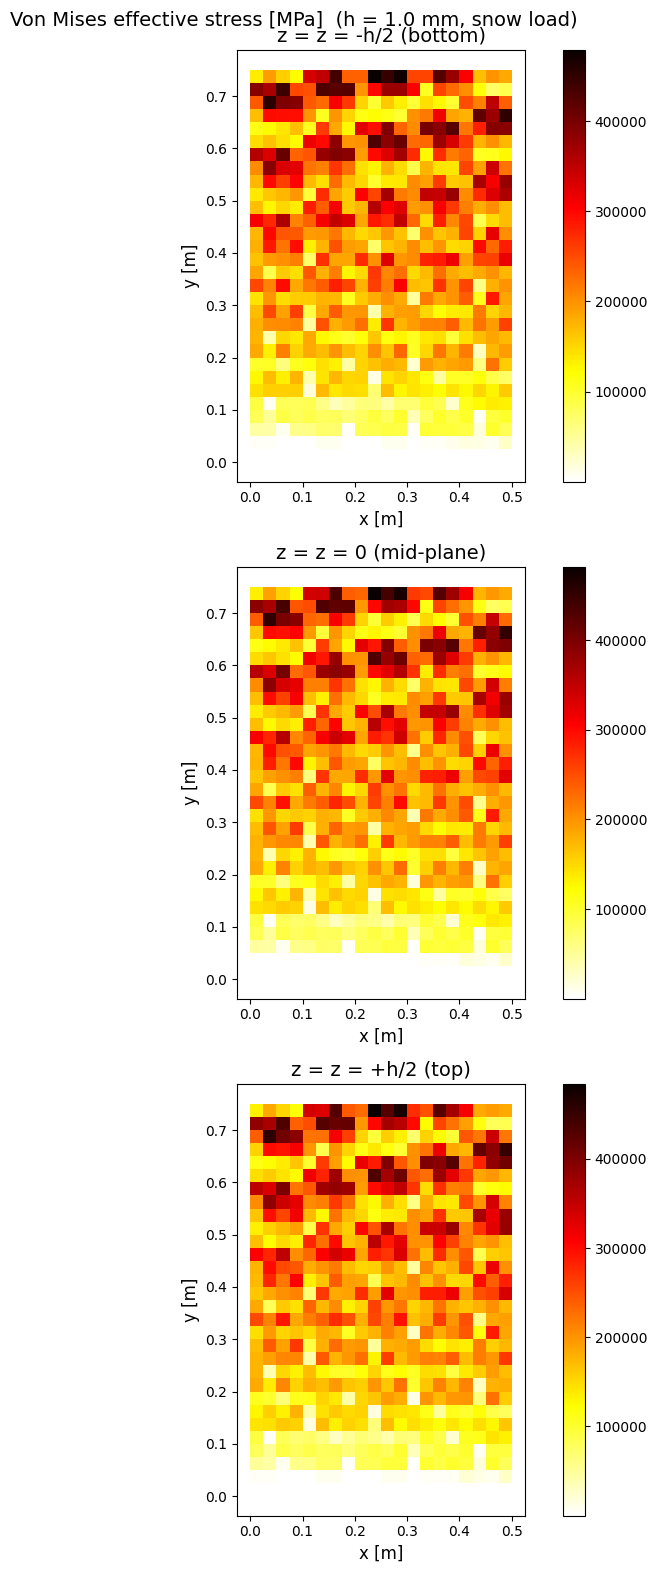
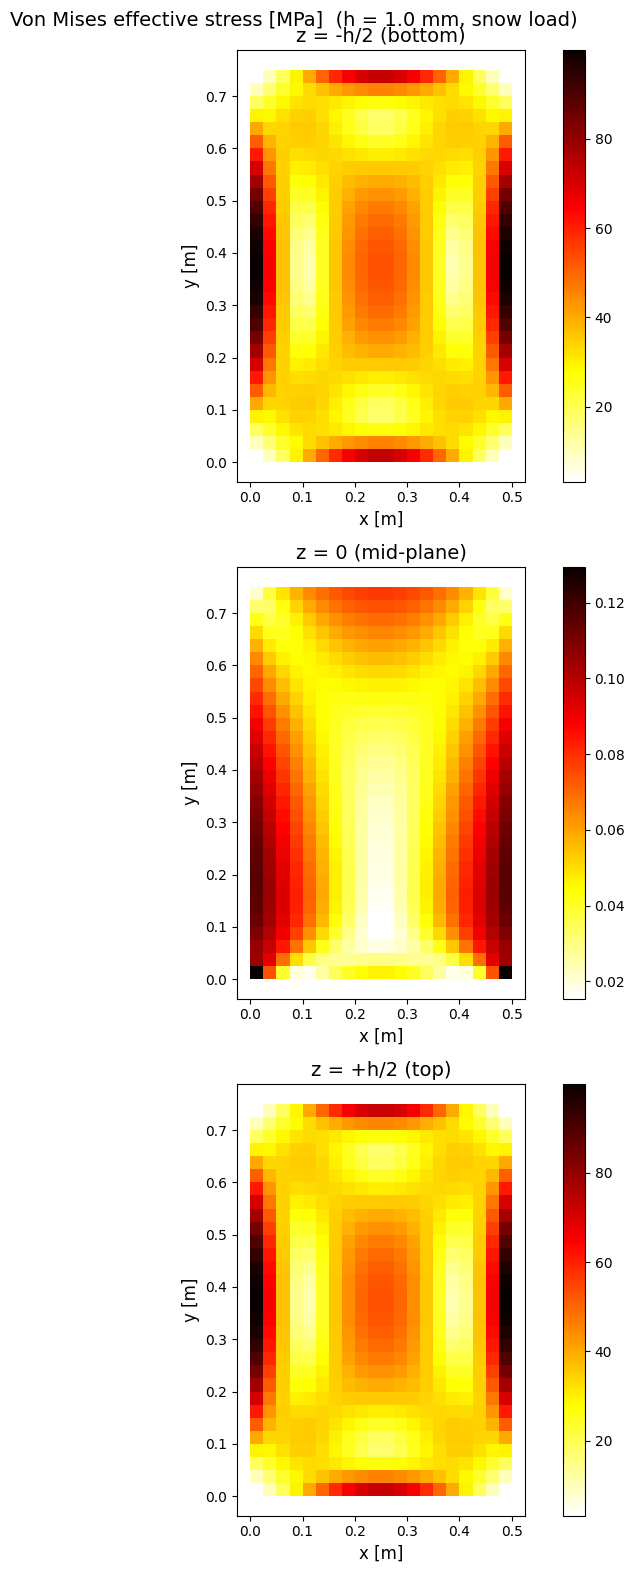
.

diff --git a/TME245/CA2/CA2_TME245.py b/TME245/CA2/CA2_TME245.py
@@ -304,7 +304,7 @@ new_subtask('Task 1 e) - Small FE-program for plate analysis')
 # Mesh parameters
 # =============================================================================
 xmin = 0
-xmax = 0.50
+xmax = 0.5
 ymin = 0
 ymax = 0.75
 nelx = 20
@@ -372,7 +372,7 @@ plt.show()
 # =============================================================================
 nel = mesh.shape[1]
 nnodes = Coord.shape[0]
-dofs_per_node = 5
+dofs_per_node = 5 # u_x, u_y, w, theta_y, theta_x
 ndofs = dofs_per_node * nnodes
 
 K_global = lil_matrix((ndofs, ndofs)) 
@@ -406,16 +406,13 @@ for n in clamped_nodes:
 
 # Gliding
 for n in gliding_nodes:
-    prescribed.add(5 * n + 2)  # w
-    prescribed.add(5 * n + 3)  # theta_y
-    prescribed.add(5 * n + 4)  # theta_x
+    prescribed.add(5 * n + 2) # w
+    prescribed.add(5 * n + 3) # theta_y
+    prescribed.add(5 * n + 4) # theta_x
 
 dof_C = np.array(sorted(prescribed), dtype=int)
 dof_F = np.setdiff1d(np.arange(ndofs), dof_C)
 a_C = np.zeros(len(dof_C))
-
-print(f'Clamped nodes: {len(clamped_nodes)} \nGliding nodes: {len(gliding_nodes)}')
-print(f'Prescribed DOFs: {len(dof_C)} \nFree DOFs: {len(dof_F)}')
 
 body = q_bar
 
@@ -472,7 +469,10 @@ a_F = np.atleast_1d(a_F).ravel()
 # =============================================================================
 # Calculate reaction forces
 # =============================================================================
-f_extC = K_CF @ a_F + K_CC @ a_C - f_global[dof_C]
+
+# Eq (7.146)
+r_C = K_CF @ a_F + K_CC @ a_C - f_global[dof_C]
+# displayvar('r_C', r_C)
 
 a[dof_F] = a_F
 a[dof_C] = a_C
@@ -531,7 +531,8 @@ plt.show()
 # =============================================================================
 def von_mises_plane_stress(sigma):
     s11, s22, s12 = sigma
-    return np.sqrt(s11**2 - s11 * s22 + s22**2 + 3.0 * s12**2)
+    sigma_vm = np.sqrt(s11**2 - s11 * s22 + s22**2 + 3.0 * s12**2)
+    return sigma_vm
 
 GP = 1.0 / np.sqrt(3.)
 xi_GP = np.array([[-GP,-GP], [GP,-GP], [GP,GP], [-GP,GP]])
@@ -555,19 +556,19 @@ def element_stress_at_z(ex, ey, a_u_el, a_w_el, h_pl, E, nu, z_coord):
 
         # Curvature
         _, Bast, _ = bast_kirchoff_func(xin, n1, n2, n3, n4)
-        kappa  = Bast @ a_w_el
+        kappa = Bast @ a_w_el
 
         # Total strain at depth z
         eps_z  = eps0 - z_coord * kappa
 
-        # Stress and von Mises
+        # Stress and von Mises (remark 7.16)
         sigma = D @ eps_z
         sigma_vM[i] = von_mises_plane_stress(sigma)
 
     return sigma_vM
 
 
-z_levels = [-h_plate/2.0, 0.0, h_plate/2.0]
+z_levels = [-h_plate / 2.0, 0, h_plate / 2.0]
 z_labels = ['z = -h/2 (bottom)', 'z = 0 (mid-plane)', 'z = +h/2 (top)']
 vM_contour = {}
 
@@ -577,14 +578,23 @@ for z in z_levels:
         ex = Coord[node_idx[el,:], 0]
         ey = Coord[node_idx[el,:], 1]
 
-        d_ip  = Edof_ip [el, 1:] - 1
-        d_oop = Edof_oop[el, 1:] - 1
+        nodes_el = node_idx[el, :]
+        d_ip = np.empty(8, dtype=int)
+        d_oop = np.empty(12, dtype=int)
+        
+        d_ip[0::2] = 5 * nodes_el + 0 # ux
+        d_ip[1::2] = 5 * nodes_el + 1 # uy
+        d_oop[0::3] = 5 * nodes_el + 2 # w
+        d_oop[1::3] = 5 * nodes_el + 3 # theta_y
+        d_oop[2::3] = 5 * nodes_el + 4 # theta_x
+        
+        # d_ip = Edof_ip[el, 1:] - 1
+        # d_oop = Edof_oop[el, 1:] - 1
 
-        a_u_el = a[d_ip ]
+        a_u_el = a[d_ip]
         a_w_el = a[d_oop]
 
-        svm = element_stress_at_z(ex, ey, a_u_el, a_w_el,
-                                   h_plate, Emod_al, nu_al, z)
+        svm = element_stress_at_z(ex, ey, a_u_el, a_w_el, h_plate, Emod_al, nu_al, z)
         el_avg_vM[el] = svm.mean()
 
     vM_contour[z] = el_avg_vM
@@ -607,7 +617,7 @@ for ax, (z, lbl) in zip(axes2, zip(z_levels, z_labels)):
     ax.add_collection(pc)
     ax.autoscale()
     ax.set_aspect('equal')
-    ax.set_title(f'z = {lbl}')
+    ax.set_title(lbl)
     ax.set_xlabel('x [m]')
     ax.set_ylabel('y [m]')
     plt.colorbar(pc, ax=ax)
@@ -666,10 +676,11 @@ new_subtask('Task 2 b) - Thermal in-plane load vector (element contribution)')
 
 def f_thermal_element(ex, ey, h, E, nu, alpha, dT):
     D_mat  = (E / (1.0 - nu**2)) * np.array([
-        [1,  nu,  0],
-        [nu,  1,  0],
-        [0,  0, (1 - nu) / 2]
+        [1, nu, 0],
+        [nu, 1, 0],
+        [0, 0, (1 - nu) / 2]
     ])
+    
     eps_th = alpha * dT * np.array([1, 1, 0])
     sigma_th = D_mat @ eps_th
 
@@ -698,8 +709,8 @@ def kirchhoff_buckling_element(ex, ey, h, Dbar, N_sec):
 
     H_v  = np.ones(4)
     xi_v = np.array([
-        [-1/np.sqrt(3), -1/np.sqrt(3), 1/np.sqrt(3), 1/np.sqrt(3)],
-        [-1/np.sqrt(3), 1/np.sqrt(3), -1/np.sqrt(3), 1/np.sqrt(3)]
+        [-1 / np.sqrt(3), -1 / np.sqrt(3), 1 / np.sqrt(3), 1 / np.sqrt(3)],
+        [-1 / np.sqrt(3), 1 / np.sqrt(3), -1 / np.sqrt(3), 1 / np.sqrt(3)]
     ])
 
     K_K_ww = np.zeros((12, 12))
@@ -725,7 +736,7 @@ def kirchhoff_buckling_element(ex, ey, h, Dbar, N_sec):
 def inplane_stress_at_point(xin, xe_nodes, a_u_el, D_mat, alpha, dT):
     B_u, _ = Bu_and_detJ(xin, xe_nodes)
     eps = B_u @ a_u_el
-    eps_th = alpha * dT * np.array([1.0, 1.0, 0.0])
+    eps_th = alpha * dT * np.array([1, 1, 0])
     sigma = D_mat @ (eps - eps_th)
     return sigma
 
@@ -739,7 +750,7 @@ new_subtask('Task 2 c) - Linearised pre-buckling FE program')
 # In-plane thermal problem
 # =============================================================================
 K_uu_global = lil_matrix((ndofs, ndofs))
-f_u_thermal  = np.zeros(ndofs)
+f_u_thermal = np.zeros(ndofs)
 
 D_mat = hooke_plane_stress(Emod_al, nu_al)
 
@@ -748,16 +759,16 @@ for el in range(nel):
     ey = Coord[node_idx[el, :], 1]
 
     # Element in-plane stiffness
-    K_uu_e, _, _, _ = kirchoff_plate_element(ex, ey, h_plate, Dbar, body_val=0.0)
+    K_uu_e, _, _, _ = kirchoff_plate_element(ex, ey, h_plate, Dbar, body_val=0)
 
     # Element thermal load
     f_th_e = f_thermal_element(ex, ey, h_plate, Emod_al, nu_al, alpha_al, delta_T)
 
     # DOF mapping (in-plane only: ux, uy)
     nodes = node_idx[el, :]
-    d_ip  = np.empty(8, dtype=int)
-    d_ip[0::2] = 5 * nodes + 0   # ux
-    d_ip[1::2] = 5 * nodes + 1   # uy
+    d_ip = np.empty(8, dtype=int)
+    d_ip[0::2] = 5 * nodes + 0
+    d_ip[1::2] = 5 * nodes + 1
 
     # Assemble
     for i in range(8):
@@ -773,11 +784,11 @@ K_uu_csr = K_uu_global.tocsr()
 prescribed_ip = set()
 
 for n in clamped_nodes:
-    prescribed_ip.add(5 * n + 0) # ux
-    prescribed_ip.add(5 * n + 1) # uy
+    prescribed_ip.add(5 * n + 0) # u_x
+    prescribed_ip.add(5 * n + 1) # u_y
 
-for n in gliding_nodes:
-    prescribed_ip.add(5 * n + 1) # uy
+# for n in gliding_nodes:
+#     prescribed_ip.add(5 * n + 1) # uy
 
 dof_C_ip = np.array(sorted(prescribed_ip), dtype=int)
 dof_F_ip = np.setdiff1d(np.arange(ndofs), dof_C_ip)
@@ -867,7 +878,7 @@ dof_C_oop = np.array(sorted(prescribed_oop), dtype=int)
 dof_F_oop = np.setdiff1d(np.arange(ndofs), dof_C_oop)
 
 K_FF_bck = K_Kww_csr[np.ix_(dof_F_oop, dof_F_oop)].toarray()
-G_FF_bck = G_R_csr  [np.ix_(dof_F_oop, dof_F_oop)].toarray()
+G_FF_bck = G_R_csr[np.ix_(dof_F_oop, dof_F_oop)].toarray()
 
 # Solve with eigh (symmetric) asking for the smallest eigenvalue of K w.r.t. -G.
 # If -G is positive semi-definite (compressive loads), the smallest positive
@@ -908,7 +919,7 @@ pc = PolyCollection(polygons_plot, array=el_w, edgecolors='none')
 ax.add_collection(pc)
 ax.autoscale()
 ax.set_aspect('equal')
-ax.set_title(f'Buckling mode 1  (eigval_1 = {lam_min:.3f},  SF = {lam_min:.2f})')
+ax.set_title(f'Buckling mode 1  (eigval_1 = {lam_min:.3f}, SF = {lam_min:.2f})')
 ax.set_xlabel('x [m]')
 ax.set_ylabel('y [m]')
 plt.colorbar(pc, ax=ax, label='Normalised w (buckling mode)')
